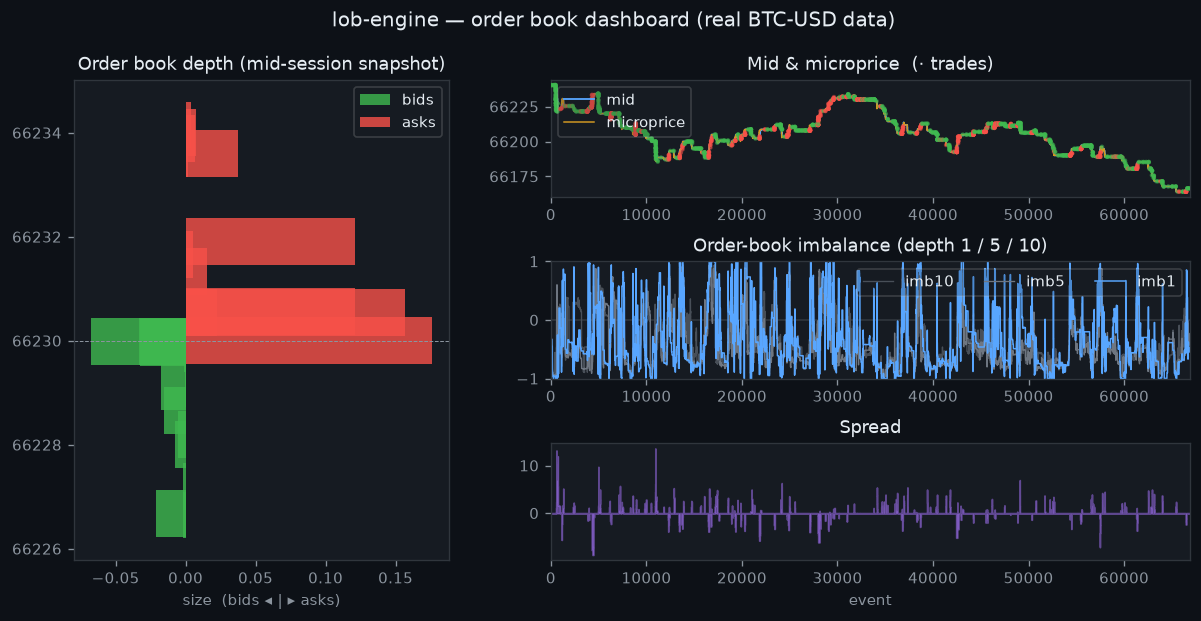
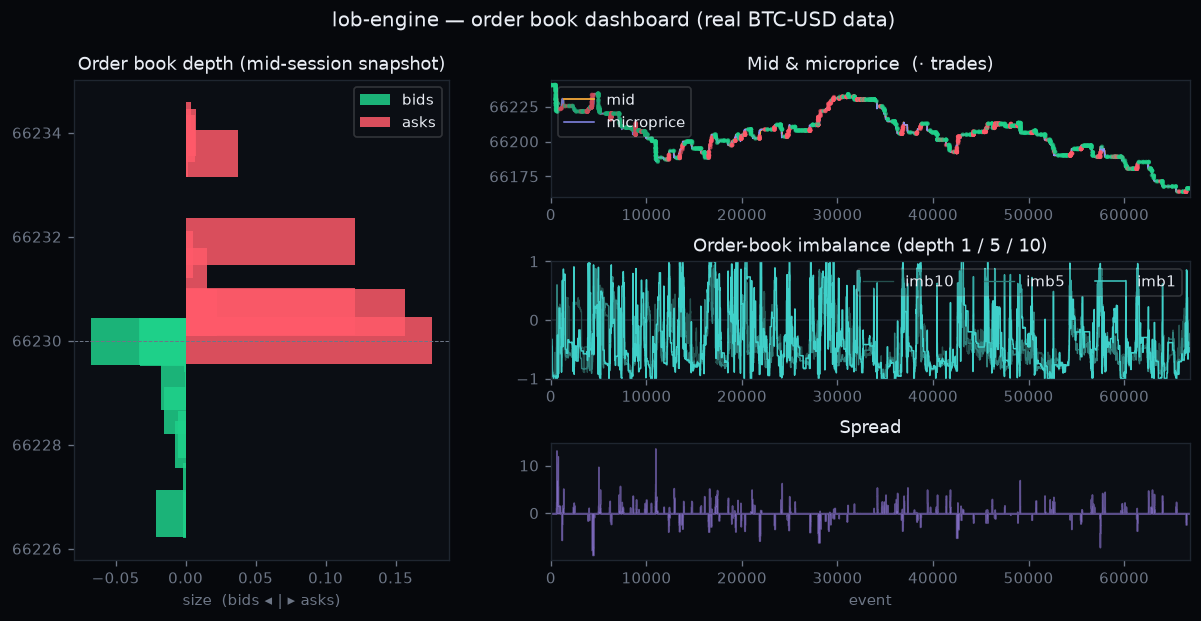
style: retheme replay dashboard + poster to match live redesign
Apply the live dashboard's deep-ink / emerald-coral-amber palette to
build_dashboard.py and preview.py, and regenerate dashboard.html and
dashboard_preview.png so every visual in the project shares one look.

diff --git a/dashboard/dashboard.html b/dashboard/dashboard.html
@@ -6,11 +6,14 @@
 <title>lob-engine — order book dashboard</title>
 <style>
   :root {
-    --bg:#0d1117; --panel:#161b22; --line:#30363d; --text:#e6edf3;
-    --muted:#8b949e; --bid:#3fb950; --ask:#f85149; --mid:#58a6ff; --micro:#d29922;
+    --bg:#06080c; --panel:#0b0e14; --line:#1f2630; --text:#e9edf4;
+    --muted:#6d7686; --bid:#1fd18a; --ask:#ff5a6a; --mid:#f0a63a; --micro:#8b8ff5;
+    --accent:#f0a63a; --spread:#a78bfa;
   }
   * { box-sizing:border-box; }
-  body { margin:0; background:var(--bg); color:var(--text);
+  body { margin:0; background:
+      radial-gradient(1100px 500px at 75% -10%,rgba(240,166,58,.05),transparent 60%), var(--bg);
+    color:var(--text);
     font-family:ui-monospace,SFMono-Regular,Menlo,Consolas,monospace; }
   header { padding:18px 22px; border-bottom:1px solid var(--line); }
   h1 { margin:0; font-size:18px; letter-spacing:.3px; }
@@ -18,14 +21,15 @@
   .wrap { display:grid; grid-template-columns:minmax(320px,1fr) minmax(360px,1.6fr);
     gap:16px; padding:16px; max-width:1200px; margin:0 auto; }
   @media (max-width:820px){ .wrap{ grid-template-columns:1fr; } }
-  .panel { background:var(--panel); border:1px solid var(--line); border-radius:8px; padding:14px; }
+  .panel { background:linear-gradient(180deg,var(--panel),var(--bg)); border:1px solid var(--line);
+    border-radius:12px; padding:15px; box-shadow:inset 0 1px 0 rgba(255,255,255,.03); }
   .panel h2 { margin:0 0 10px; font-size:12px; text-transform:uppercase;
     letter-spacing:.8px; color:var(--muted); font-weight:600; }
   .stack > .panel { margin-bottom:16px; }
   .controls { display:flex; align-items:center; gap:12px; padding:6px 16px 16px; max-width:1200px; margin:0 auto; }
-  button { background:#21262d; color:var(--text); border:1px solid var(--line);
-    border-radius:6px; padding:6px 14px; cursor:pointer; font:inherit; }
-  button:hover { border-color:var(--mid); }
+  button { background:#10141c; color:var(--text); border:1px solid var(--line);
+    border-radius:8px; padding:7px 15px; cursor:pointer; font:inherit; font-weight:600; }
+  button:hover { border-color:var(--accent); }
   input[type=range]{ flex:1; accent-color:var(--mid); }
   .readout { font-size:12px; color:var(--muted); }
   .readout b { color:var(--text); }
@@ -98,17 +102,17 @@ const P = document.getElementById("price");
 const pLo = ext(F, d=>Math.min(d.mid,d.micro))[0], pHi = ext(F, d=>Math.max(d.mid,d.micro))[1];
 const py = v => (200-16) - (v-pLo)/((pHi-pLo)||1) * (200-32);
 function path(svg,key,color){ let s=""; F.forEach((d,i)=>{ s+=(i?"L":"M")+tx(d.t).toFixed(1)+" "+py(d[key]).toFixed(1)+" ";}); svg.appendChild(el("path",{d:s,fill:"none",stroke:color,"stroke-width":1.3})); }
-path(P,"mid","#58a6ff"); path(P,"micro","#d29922");
+path(P,"mid","#f0a63a"); path(P,"micro","#8b8ff5");
 for(const tr of D.trades){ if(tr.t<tExt[0]||tr.t>tExt[1])continue;
-  P.appendChild(el("circle",{cx:tx(tr.t),cy:py(tr.p),r:1.6,fill:tr.side==="a"?"#f85149":"#3fb950","fill-opacity":.7})); }
+  P.appendChild(el("circle",{cx:tx(tr.t),cy:py(tr.p),r:1.6,fill:tr.side==="a"?"#ff5a6a":"#1fd18a","fill-opacity":.7})); }
 [pLo,pHi].forEach((v,i)=>P.appendChild(el("text",{x:2,y:i?194:12},)).append(v.toFixed(2)));
 
-line("spread","spread","#a371f7",120);
+line("spread","spread","#a78bfa",120);
 // imbalance panel with three series + zero line
 const I = document.getElementById("imb");
 const iy = v => 70 - v*56;                 // imbalance in [-1,1] -> vertical
-I.appendChild(el("line",{x1:40,y1:iy(0),x2:632,y2:iy(0),stroke:"#30363d","stroke-width":1}));
-for(const [key,c] of [["imb10","#484f58"],["imb5","#6e7681"],["imb1","#58a6ff"]]){
+I.appendChild(el("line",{x1:40,y1:iy(0),x2:632,y2:iy(0),stroke:"#1f2630","stroke-width":1}));
+for(const [key,c] of [["imb10","#244f4d"],["imb5","#2f7d79"],["imb1","#3fd0c9"]]){
   let s=""; F.forEach((d,i)=>{ s+=(i?"L":"M")+tx(d.t).toFixed(1)+" "+iy(d[key]).toFixed(1)+" ";});
   I.appendChild(el("path",{d:s,fill:"none",stroke:c,"stroke-width":1.2}));
 }
@@ -116,7 +120,7 @@ for(const [key,c] of [["imb10","#484f58"],["imb5","#6e7681"],["imb1","#58a6ff"]]
 // cursor lines across the three time charts
 const cursors = ["price","spread","imb"].map(id=>{
   const svg=document.getElementById(id); const h=+svg.getAttribute("viewBox").split(" ")[3];
-  const c=el("line",{y1:0,y2:h,stroke:"#e6edf3","stroke-width":1,"stroke-opacity":.35}); svg.appendChild(c); return c;
+  const c=el("line",{y1:0,y2:h,stroke:"#e9edf4","stroke-width":1,"stroke-opacity":.35}); svg.appendChild(c); return c;
 });
 
 // ---- depth ladder (redrawn per frame) ----
@@ -126,7 +130,7 @@ function drawDepth(idx){
   const s = D.depth[idx]; DEPTH.innerHTML="";
   const W=360,H=420,mid=W/2, rows=Math.max(s.b.length,s.a.length), rh=Math.min(15,(H-30)/(rows||1));
   const bw = v => Math.max(1, v/maxSize * (mid-6));
-  DEPTH.appendChild(el("line",{x1:mid,y1:0,x2:mid,y2:H-18,stroke:"#30363d"}));
+  DEPTH.appendChild(el("line",{x1:mid,y1:0,x2:mid,y2:H-18,stroke:"#1f2630"}));
   s.b.forEach((l,k)=>{ const y=6+k*rh; DEPTH.appendChild(el("rect",{x:mid-bw(l[1]),y:y,width:bw(l[1]),height:rh-2,fill:"var(--bid)","fill-opacity":.75}));
     DEPTH.append(Object.assign(el("text",{x:4,y:y+rh-3}),{textContent:l[0].toFixed(2)})); });
   s.a.forEach((l,k)=>{ const y=6+k*rh; DEPTH.appendChild(el("rect",{x:mid,y:y,width:bw(l[1]),height:rh-2,fill:"var(--ask)","fill-opacity":.75}));

diff --git a/dashboard/preview.py b/dashboard/preview.py
@@ -45,7 +45,7 @@ def read_trades(path):
                 if r["event_type"] == "trade":
                     xs.append(i)
                     ys.append(float(r["trade_price"]))
-                    cs.append("#f85149" if r["trade_side"] == "a" else "#3fb950")
+                    cs.append("#ff5a6a" if r["trade_side"] == "a" else "#1fd18a")
     except FileNotFoundError:
         pass
     return xs, ys, cs
@@ -65,11 +65,16 @@ def main():
     n = len(feats["mid"])
     x = list(range(n))
 
+    # Palette shared with the live dashboard (deep ink + emerald/coral/amber).
+    C = {"bg": "#06080c", "panel": "#0b0e14", "line": "#1f2630",
+         "text": "#e9edf4", "muted": "#6d7686", "bid": "#1fd18a", "ask": "#ff5a6a",
+         "mid": "#f0a63a", "micro": "#8b8ff5", "spread": "#a78bfa",
+         "imb1": "#3fd0c9", "imb5": "#2f7d79", "imb10": "#244f4d"}
     plt.rcParams.update({
-        "figure.facecolor": "#0d1117", "axes.facecolor": "#161b22",
-        "axes.edgecolor": "#30363d", "text.color": "#e6edf3",
-        "axes.labelcolor": "#8b949e", "xtick.color": "#8b949e",
-        "ytick.color": "#8b949e", "axes.titlecolor": "#e6edf3", "font.size": 9,
+        "figure.facecolor": C["bg"], "axes.facecolor": C["panel"],
+        "axes.edgecolor": C["line"], "text.color": C["text"],
+        "axes.labelcolor": C["muted"], "xtick.color": C["muted"],
+        "ytick.color": C["muted"], "axes.titlecolor": C["text"], "font.size": 9,
     })
     fig = plt.figure(figsize=(12, 5.2))
     gs = fig.add_gridspec(3, 2, width_ratios=[1, 1.7], hspace=0.55, wspace=0.2)
@@ -78,42 +83,40 @@ def main():
     axd = fig.add_subplot(gs[:, 0])
     bp = [l[0] for l in snap["b"]]; bs = [l[1] for l in snap["b"]]
     ap = [l[0] for l in snap["a"]]; as_ = [l[1] for l in snap["a"]]
-    axd.barh(bp, [-v for v in bs], color="#3fb950", alpha=0.8, height=0.9,
-             label="bids")
-    axd.barh(ap, as_, color="#f85149", alpha=0.8, height=0.9, label="asks")
-    axd.axhline((bp[0] + ap[0]) / 2, color="#8b949e", lw=0.6, ls="--")
+    axd.barh(bp, [-v for v in bs], color=C["bid"], alpha=0.85, height=0.9, label="bids")
+    axd.barh(ap, as_, color=C["ask"], alpha=0.85, height=0.9, label="asks")
+    axd.axhline((bp[0] + ap[0]) / 2, color=C["muted"], lw=0.6, ls="--")
     axd.set_title("Order book depth (mid-session snapshot)")
     axd.set_xlabel("size  (bids ◂ | ▸ asks)"); axd.legend(loc="upper right", framealpha=0.2)
 
     # Price + trades
     axp = fig.add_subplot(gs[0, 1])
-    axp.plot(x, feats["mid"], color="#58a6ff", lw=1.1, label="mid")
-    axp.plot(x, feats["microprice"], color="#d29922", lw=0.9, label="microprice")
+    axp.plot(x, feats["mid"], color=C["mid"], lw=1.1, label="mid")
+    axp.plot(x, feats["microprice"], color=C["micro"], lw=0.9, label="microprice")
     tx, ty, tc = read_trades(args.events) if args.events else ([], [], [])
     if tx:
-        sc = max(1, n // 1)  # trades indexed by their own row; rescale to feature x
         txr = [t * n / (max(tx) + 1) for t in tx]
-        axp.scatter(txr, ty, s=3, c=tc, alpha=0.5, zorder=3)
+        axp.scatter(txr, ty, s=3, c=tc, alpha=0.55, zorder=3)
     axp.set_title("Mid & microprice  (· trades)"); axp.legend(loc="upper left", framealpha=0.2)
     axp.margins(x=0)
 
     # Imbalance
     axi = fig.add_subplot(gs[1, 1])
-    axi.axhline(0, color="#30363d", lw=1)
-    axi.plot(x, feats["imb10"], color="#484f58", lw=0.8, label="imb10")
-    axi.plot(x, feats["imb5"], color="#6e7681", lw=0.8, label="imb5")
-    axi.plot(x, feats["imb1"], color="#58a6ff", lw=0.9, label="imb1")
+    axi.axhline(0, color=C["line"], lw=1)
+    axi.plot(x, feats["imb10"], color=C["imb10"], lw=0.8, label="imb10")
+    axi.plot(x, feats["imb5"], color=C["imb5"], lw=0.8, label="imb5")
+    axi.plot(x, feats["imb1"], color=C["imb1"], lw=0.9, label="imb1")
     axi.set_title("Order-book imbalance (depth 1 / 5 / 10)")
     axi.set_ylim(-1, 1); axi.legend(loc="upper right", ncol=3, framealpha=0.2); axi.margins(x=0)
 
     # Spread
     axs = fig.add_subplot(gs[2, 1])
-    axs.fill_between(x, feats["spread"], color="#a371f7", alpha=0.5)
+    axs.fill_between(x, feats["spread"], color=C["spread"], alpha=0.5)
     axs.set_title("Spread"); axs.set_xlabel("event"); axs.margins(x=0)
 
     fig.suptitle("lob-engine — order book dashboard (real BTC-USD data)",
-                 x=0.5, y=0.99, fontsize=12, color="#e6edf3")
-    fig.savefig(args.out, dpi=120, bbox_inches="tight", facecolor="#0d1117")
+                 x=0.5, y=0.99, fontsize=12, color=C["text"])
+    fig.savefig(args.out, dpi=120, bbox_inches="tight", facecolor=C["bg"])
     print(f"wrote {args.out}")
 
 

diff --git a/dashboard/build_dashboard.py b/dashboard/build_dashboard.py
@@ -78,11 +78,14 @@ HTML = r"""<!doctype html>
 <title>lob-engine — order book dashboard</title>
 <style>
   :root {
-    --bg:#0d1117; --panel:#161b22; --line:#30363d; --text:#e6edf3;
-    --muted:#8b949e; --bid:#3fb950; --ask:#f85149; --mid:#58a6ff; --micro:#d29922;
+    --bg:#06080c; --panel:#0b0e14; --line:#1f2630; --text:#e9edf4;
+    --muted:#6d7686; --bid:#1fd18a; --ask:#ff5a6a; --mid:#f0a63a; --micro:#8b8ff5;
+    --accent:#f0a63a; --spread:#a78bfa;
   }
   * { box-sizing:border-box; }
-  body { margin:0; background:var(--bg); color:var(--text);
+  body { margin:0; background:
+      radial-gradient(1100px 500px at 75% -10%,rgba(240,166,58,.05),transparent 60%), var(--bg);
+    color:var(--text);
     font-family:ui-monospace,SFMono-Regular,Menlo,Consolas,monospace; }
   header { padding:18px 22px; border-bottom:1px solid var(--line); }
   h1 { margin:0; font-size:18px; letter-spacing:.3px; }
@@ -90,14 +93,15 @@ HTML = r"""<!doctype html>
   .wrap { display:grid; grid-template-columns:minmax(320px,1fr) minmax(360px,1.6fr);
     gap:16px; padding:16px; max-width:1200px; margin:0 auto; }
   @media (max-width:820px){ .wrap{ grid-template-columns:1fr; } }
-  .panel { background:var(--panel); border:1px solid var(--line); border-radius:8px; padding:14px; }
+  .panel { background:linear-gradient(180deg,var(--panel),var(--bg)); border:1px solid var(--line);
+    border-radius:12px; padding:15px; box-shadow:inset 0 1px 0 rgba(255,255,255,.03); }
   .panel h2 { margin:0 0 10px; font-size:12px; text-transform:uppercase;
     letter-spacing:.8px; color:var(--muted); font-weight:600; }
   .stack > .panel { margin-bottom:16px; }
   .controls { display:flex; align-items:center; gap:12px; padding:6px 16px 16px; max-width:1200px; margin:0 auto; }
-  button { background:#21262d; color:var(--text); border:1px solid var(--line);
-    border-radius:6px; padding:6px 14px; cursor:pointer; font:inherit; }
-  button:hover { border-color:var(--mid); }
+  button { background:#10141c; color:var(--text); border:1px solid var(--line);
+    border-radius:8px; padding:7px 15px; cursor:pointer; font:inherit; font-weight:600; }
+  button:hover { border-color:var(--accent); }
   input[type=range]{ flex:1; accent-color:var(--mid); }
   .readout { font-size:12px; color:var(--muted); }
   .readout b { color:var(--text); }
@@ -170,17 +174,17 @@ const P = document.getElementById("price");
 const pLo = ext(F, d=>Math.min(d.mid,d.micro))[0], pHi = ext(F, d=>Math.max(d.mid,d.micro))[1];
 const py = v => (200-16) - (v-pLo)/((pHi-pLo)||1) * (200-32);
 function path(svg,key,color){ let s=""; F.forEach((d,i)=>{ s+=(i?"L":"M")+tx(d.t).toFixed(1)+" "+py(d[key]).toFixed(1)+" ";}); svg.appendChild(el("path",{d:s,fill:"none",stroke:color,"stroke-width":1.3})); }
-path(P,"mid","#58a6ff"); path(P,"micro","#d29922");
+path(P,"mid","#f0a63a"); path(P,"micro","#8b8ff5");
 for(const tr of D.trades){ if(tr.t<tExt[0]||tr.t>tExt[1])continue;
-  P.appendChild(el("circle",{cx:tx(tr.t),cy:py(tr.p),r:1.6,fill:tr.side==="a"?"#f85149":"#3fb950","fill-opacity":.7})); }
+  P.appendChild(el("circle",{cx:tx(tr.t),cy:py(tr.p),r:1.6,fill:tr.side==="a"?"#ff5a6a":"#1fd18a","fill-opacity":.7})); }
 [pLo,pHi].forEach((v,i)=>P.appendChild(el("text",{x:2,y:i?194:12},)).append(v.toFixed(2)));
 
-line("spread","spread","#a371f7",120);
+line("spread","spread","#a78bfa",120);
 // imbalance panel with three series + zero line
 const I = document.getElementById("imb");
 const iy = v => 70 - v*56;                 // imbalance in [-1,1] -> vertical
-I.appendChild(el("line",{x1:40,y1:iy(0),x2:632,y2:iy(0),stroke:"#30363d","stroke-width":1}));
-for(const [key,c] of [["imb10","#484f58"],["imb5","#6e7681"],["imb1","#58a6ff"]]){
+I.appendChild(el("line",{x1:40,y1:iy(0),x2:632,y2:iy(0),stroke:"#1f2630","stroke-width":1}));
+for(const [key,c] of [["imb10","#244f4d"],["imb5","#2f7d79"],["imb1","#3fd0c9"]]){
   let s=""; F.forEach((d,i)=>{ s+=(i?"L":"M")+tx(d.t).toFixed(1)+" "+iy(d[key]).toFixed(1)+" ";});
   I.appendChild(el("path",{d:s,fill:"none",stroke:c,"stroke-width":1.2}));
 }
@@ -188,7 +192,7 @@ for(const [key,c] of [["imb10","#484f58"],["imb5","#6e7681"],["imb1","#58a6ff"]]
 // cursor lines across the three time charts
 const cursors = ["price","spread","imb"].map(id=>{
   const svg=document.getElementById(id); const h=+svg.getAttribute("viewBox").split(" ")[3];
-  const c=el("line",{y1:0,y2:h,stroke:"#e6edf3","stroke-width":1,"stroke-opacity":.35}); svg.appendChild(c); return c;
+  const c=el("line",{y1:0,y2:h,stroke:"#e9edf4","stroke-width":1,"stroke-opacity":.35}); svg.appendChild(c); return c;
 });
 
 // ---- depth ladder (redrawn per frame) ----
@@ -198,7 +202,7 @@ function drawDepth(idx){
   const s = D.depth[idx]; DEPTH.innerHTML="";
   const W=360,H=420,mid=W/2, rows=Math.max(s.b.length,s.a.length), rh=Math.min(15,(H-30)/(rows||1));
   const bw = v => Math.max(1, v/maxSize * (mid-6));
-  DEPTH.appendChild(el("line",{x1:mid,y1:0,x2:mid,y2:H-18,stroke:"#30363d"}));
+  DEPTH.appendChild(el("line",{x1:mid,y1:0,x2:mid,y2:H-18,stroke:"#1f2630"}));
   s.b.forEach((l,k)=>{ const y=6+k*rh; DEPTH.appendChild(el("rect",{x:mid-bw(l[1]),y:y,width:bw(l[1]),height:rh-2,fill:"var(--bid)","fill-opacity":.75}));
     DEPTH.append(Object.assign(el("text",{x:4,y:y+rh-3}),{textContent:l[0].toFixed(2)})); });
   s.a.forEach((l,k)=>{ const y=6+k*rh; DEPTH.appendChild(el("rect",{x:mid,y:y,width:bw(l[1]),height:rh-2,fill:"var(--ask)","fill-opacity":.75}));